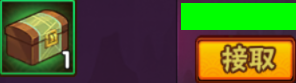
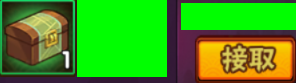
feat:任务集会所适配倍倍倍活动

Changed region(s): [[0.2432, 0.0, 0.5777, 0.9398]]

diff --git a/assets/Changelog.md b/assets/Changelog.md
@@ -1,4 +1,3 @@
-## v1.3.26
+## v1.3.27
 
-- 修复组织关闭第三个奖励识别错误bug
-- 适配木叶小吃店
+- 任务集会所超影适配倍倍倍活动